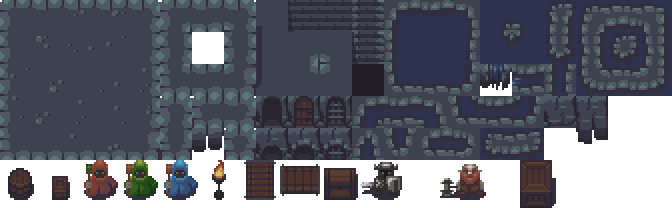
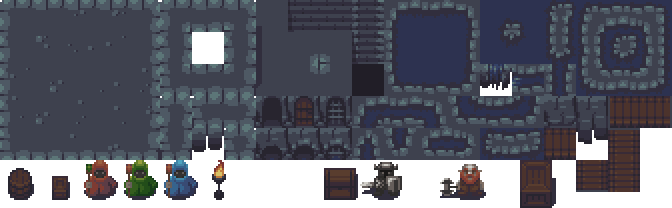
Made the world larger and more complex, added bridges and reduced the size of character hitbox

Changed region(s): [[0.8125, 0.4615, 1.0, 0.9231], [0.3438, 0.75, 0.5, 0.9808]]

diff --git a/Code/GameClasses/Characters/CharacterBase.ts b/Code/GameClasses/Characters/CharacterBase.ts
@@ -19,8 +19,8 @@
             this.animations.add('up', [9, 10, 11], 10, true);
 
             game.physics.enable(this);
-            this.body.height = 32;
-
+            this.body.height = 26;
+            this.body.width = 26;
         }
 
         //MovementUpdate() {
